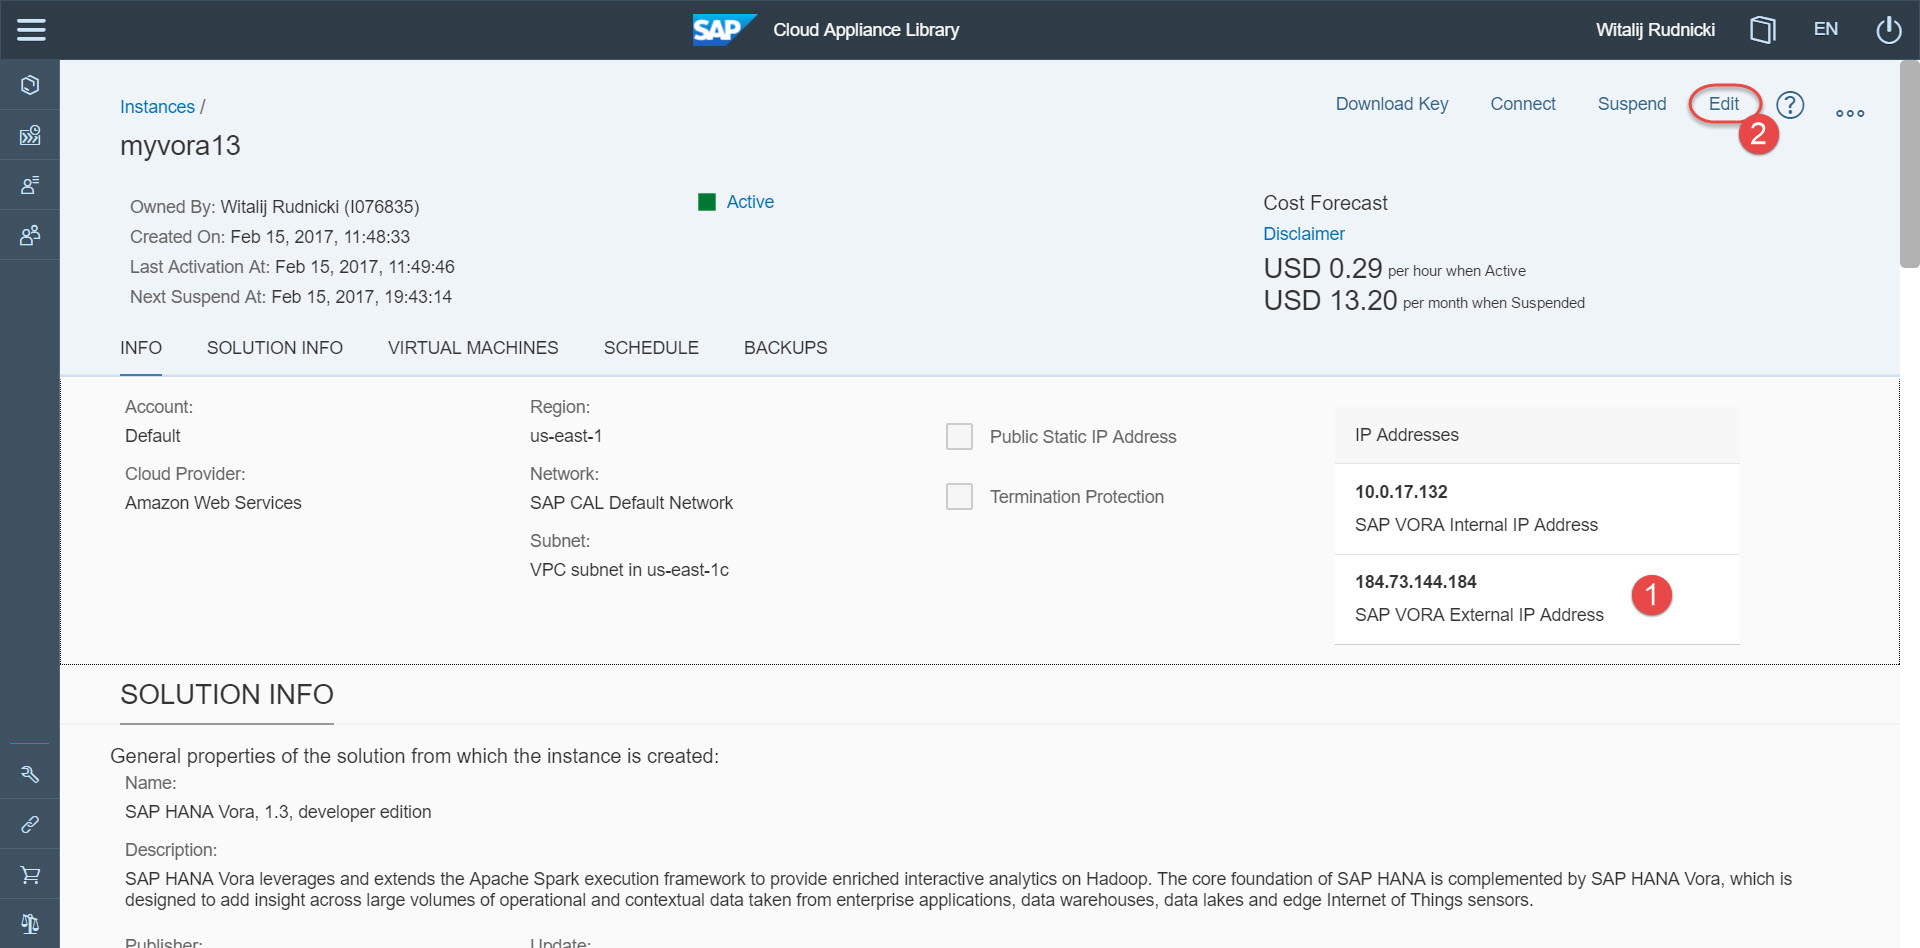
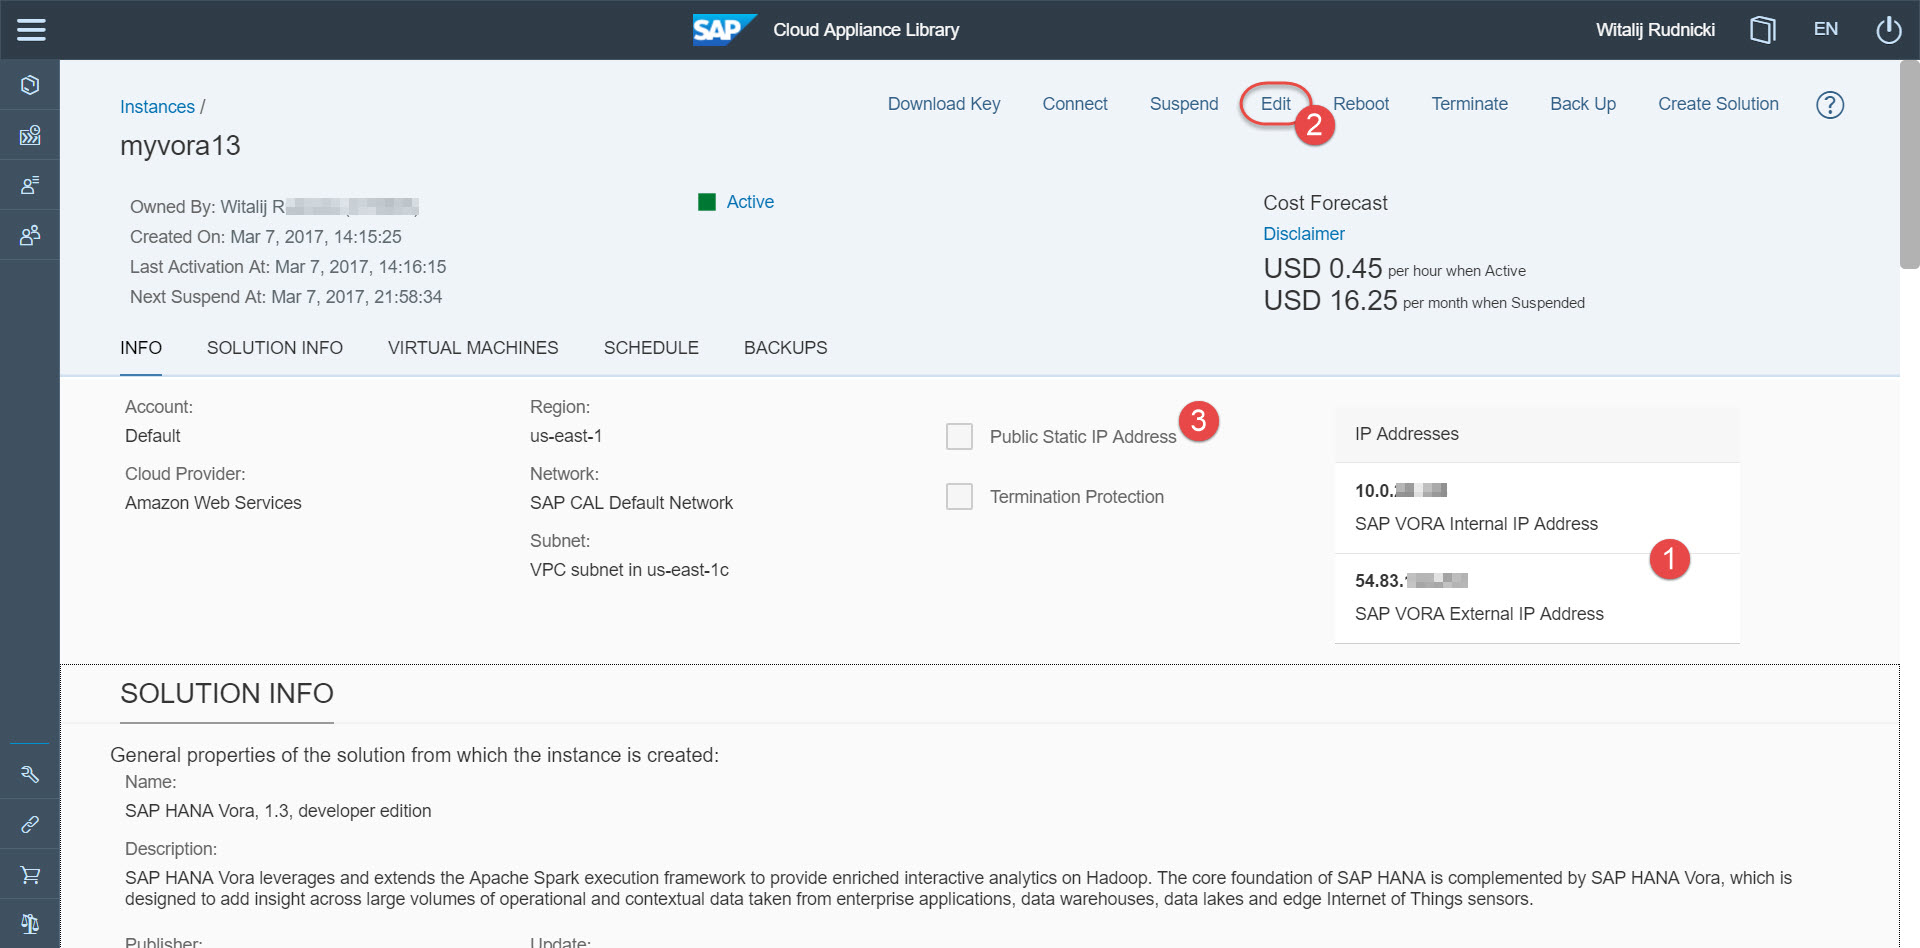
Updated How-to for Vora on CAL: vm sizing

diff --git a/tutorials/2017/02/vora-cal-setup/vora-cal-setup.md b/tutorials/2017/02/vora-cal-setup/vora-cal-setup.md
@@ -1,7 +1,7 @@
 ---
 title: How to setup the SAP HANA Vora developer edition in SAP CAL
 description: Setup the SAP HANA Vora 1.3 developer edition using the SAP Cloud Appliance Library
-tags: [  tutorial>how-to, tutorial>beginner, products>sap-hana-vora ]
+tags: [  tutorial>how-to, tutorial>beginner, topic>cloud, products>sap-hana-vora ]
 ---
 ## Prerequisites  
  - **Systems used:**
@@ -56,16 +56,20 @@ Click **Create Instance**.
 
 On **Create Instance** screen choose the CAL account, where the instance to be created. In the example below the CAL account is `Default` and it is linked with the AWS account in Amazon Web Services.
 
-Review the cost forecast related to the instance. This is the cost charged by the cloud provider, which is AWS in this example.
-
 Define:
 - the instance name (here `myvora13`),
 - the AWS region (here `us-east-1`, which is the only AWS region, where the instance can be created),
 - the master password (make sure you remember it ;-).
 
-![Basic settings of the instance created](vorasetup03.jpg)
+![Basic settings of the instance created](vorasetup03a.jpg)
 
-Click **Create**. Read and accept **Terms and Conditions**.
+Click **Advanced Mode** and go through the wizard steps. On step 3 **Virtual Machines** change SAP VORA machine size to at least `r3.xlarge` to make sure there will be enough resources for all processes.
+
+To get better storage performance you can change as well the **Volume Type** to `Provisioned IOPS`. It has a cost impact, so choose what is more important for you. Review the cost forecast related to the instance. This is the cost charged by the cloud provider, which is AWS in this example.
+
+![Resources settings](vorasetup03b.jpg)
+
+At the end of the wizard click **Review** to review your settings, and then click **Create** if everything is good. Read and accept **Terms and Conditions** if displayed.
 
 It is important that you click **Download** and store a file with a private key. You will use it to connect to the instance's host using ssh client of your choice, like [PuTTY](http://www.putty.org/).
 
